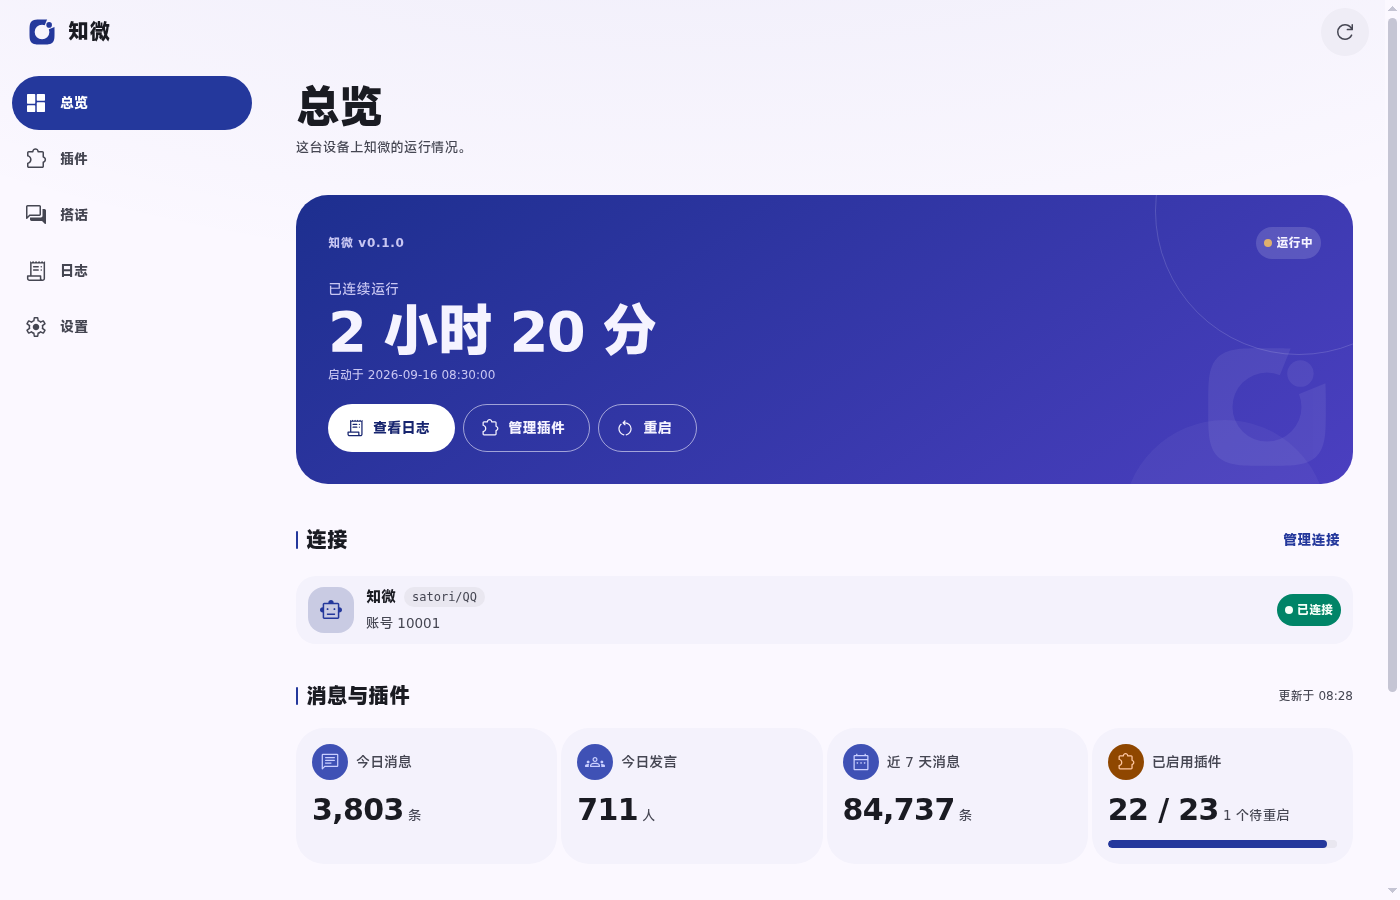
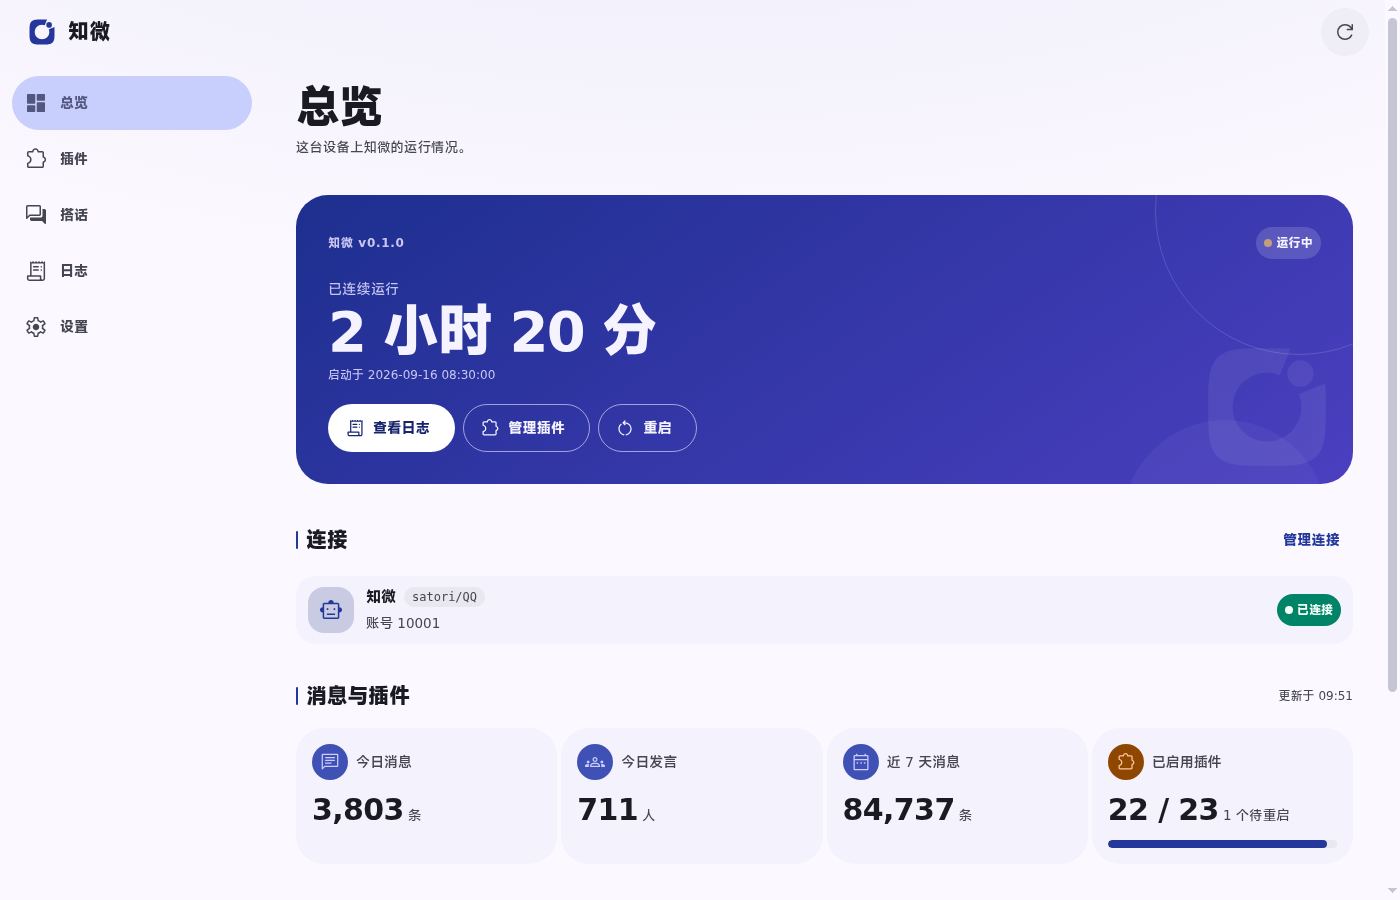
feat(console): 导航胶囊跟着当前页滑动，选中态改为 tonal 胶囊

Changed region(s): [[0.0, 0.0622, 0.1843, 0.1556]]

diff --git a/res/console/app.css b/res/console/app.css
@@ -356,25 +356,51 @@ time {
   border-radius: calc(var(--zw-dock-height) / 2);
   background: var(--md-sys-color-surface-container-high);
   box-shadow: var(--md-sys-elevation-level2);
+  isolation: isolate;
+}
+
+/* 滑动的胶囊。位置与尺寸由 app.js 的 paintNavPill 跟着当前格量出来；
+   它不是哪一格的背景，所以换页时能从旧格滑到新格。 */
+.nav-pill {
+  position: absolute;
+  inset: 0 auto auto 0;
+  z-index: 0;
+  width: 0;
+  height: 0;
+  border-radius: var(--md-sys-shape-corner-full);
+  background: var(--md-sys-color-secondary-container);
+  box-shadow: var(--md-sys-elevation-level2);
+  pointer-events: none;
+  transform: translate3d(0, 0, 0);
+  will-change: transform, width, height;
+  transition: background-color var(--md-sys-motion-effects-default-duration) var(--md-sys-motion-effects-default-easing);
+}
+
+/* 首帧、解锁与断点重排时先落位再开动画，免得量到过渡中间的一格宽。 */
+.nav.nav-snap .nav-item,
+.nav.nav-snap .nav-label {
+  transition: none;
 }
 
 .nav-item {
+  position: relative;
+  z-index: 1;
   flex: 1 1 0;
   display: flex;
   flex-direction: column;
   align-items: center;
   justify-content: center;
-  gap: var(--zw-space-01);
+  gap: 0;
   min-width: 0;
   height: calc(var(--zw-dock-height) - var(--zw-space-05));
   border-radius: calc((var(--zw-dock-height) - var(--zw-space-05)) / 2);
   color: var(--md-sys-color-on-surface-variant);
   text-decoration: none;
   transition:
-    background-color var(--md-sys-motion-effects-default-duration) var(--md-sys-motion-effects-default-easing),
     color var(--md-sys-motion-effects-fast-duration) var(--md-sys-motion-effects-fast-easing),
-    flex-grow var(--md-sys-motion-spatial-fast-duration) var(--md-sys-motion-spatial-fast-easing),
-    padding var(--md-sys-motion-spatial-fast-duration) var(--md-sys-motion-spatial-fast-easing);
+    flex-grow var(--zw-nav-duration) var(--md-sys-motion-spatial-default-easing),
+    flex-basis var(--zw-nav-duration) var(--md-sys-motion-spatial-default-easing),
+    padding var(--zw-nav-duration) var(--md-sys-motion-spatial-default-easing);
 }
 
 .nav-icon {
@@ -398,26 +424,40 @@ time {
   display: block;
 }
 
+/* 窄屏只让当前格的字露出来；其余格的字宽高归零，但仍然留在 DOM 里，
+   读屏器照常读到每个入口的名字。 */
 .nav-label {
-  display: none;
+  display: block;
+  max-width: 0;
+  max-height: 0;
+  overflow: hidden;
+  opacity: 0;
   font-size: var(--md-sys-typescale-label-medium-size);
   line-height: 1;
   font-weight: var(--md-sys-typescale-weight-emphasized);
   white-space: nowrap;
+  transition:
+    max-width var(--zw-nav-duration) var(--md-sys-motion-spatial-default-easing),
+    max-height var(--zw-nav-duration) var(--md-sys-motion-spatial-default-easing),
+    opacity var(--md-sys-motion-effects-fast-duration) var(--md-sys-motion-effects-fast-easing);
 }
 
 .nav-item[aria-current="page"] {
-  flex: 0 0 auto;
+  flex-grow: 0;
+  flex-basis: clamp(90px, 26vw, 150px);
   flex-direction: row;
   gap: var(--zw-space-03);
   padding-inline: var(--zw-space-05);
-  background: var(--md-sys-color-primary);
-  color: var(--md-sys-color-on-primary);
-  box-shadow: var(--md-sys-elevation-level2);
+  color: var(--md-sys-color-on-secondary-container);
 }
 
 .nav-item[aria-current="page"] .nav-label {
-  display: block;
+  max-width: 6em;
+  max-height: 1.2em;
+  opacity: 1;
+  /* 等胶囊先滑到位，字再出现：中途不会出现白字压在浮坞灰底上的那一瞬。
+     离开当前格时用的是基础规则（没有延迟），字立刻收起。 */
+  transition-delay: 180ms;
 }
 
 .nav-item:focus-visible {
@@ -430,7 +470,7 @@ time {
 }
 
 .nav-item[aria-current="page"]:focus-visible .nav-icon {
-  outline-color: var(--md-sys-color-on-primary);
+  outline-color: var(--md-sys-color-on-secondary-container);
 }
 
 .main {
@@ -508,20 +548,28 @@ time {
     border-radius: var(--md-sys-shape-corner-large-increased);
   }
 
+  .nav-pill {
+    background: var(--md-sys-color-secondary-container);
+    box-shadow: none;
+    border-radius: var(--md-sys-shape-corner-large-increased);
+  }
+
   .nav-item .nav-label,
   .nav-item[aria-current="page"] .nav-label {
     display: block;
+    max-width: none;
+    max-height: none;
+    overflow: visible;
+    opacity: 1;
     font-size: var(--zw-type-rail-label);
   }
 
   .nav-item[aria-current="page"] {
-    background: var(--md-sys-color-secondary-container);
     color: var(--md-sys-color-on-secondary-container);
-    box-shadow: none;
   }
 
   .nav-item[aria-current="page"]:focus-visible .nav-icon {
-    outline-color: var(--zw-focus-color);
+    outline-color: var(--md-sys-color-on-secondary-container);
   }
 
   .main {
@@ -569,19 +617,28 @@ time {
     border-radius: var(--md-sys-shape-corner-full);
   }
 
+  .nav-pill {
+    background: var(--md-sys-color-secondary-container);
+    border-radius: var(--md-sys-shape-corner-full);
+    box-shadow: none;
+  }
+
   .nav-item .nav-label,
   .nav-item[aria-current="page"] .nav-label {
+    max-width: none;
+    max-height: none;
+    overflow: visible;
+    opacity: 1;
     font-size: var(--md-sys-typescale-label-large-size);
     line-height: var(--md-sys-typescale-label-large-line-height);
   }
 
   .nav-item[aria-current="page"] {
-    background: var(--md-sys-color-primary);
-    color: var(--md-sys-color-on-primary);
+    color: var(--md-sys-color-on-secondary-container);
   }
 
   .nav-item[aria-current="page"]:focus-visible .nav-icon {
-    outline-color: var(--md-sys-color-on-primary);
+    outline-color: var(--md-sys-color-on-secondary-container);
   }
 
   .nav-item:focus-visible {

diff --git a/res/console/app.js b/res/console/app.js
@@ -312,12 +312,12 @@
   function buildShell() {
     put(
       $("#nav"),
-      PAGES.map(
+      h`<span class="nav-pill" aria-hidden="true"></span>${PAGES.map(
         (page) => h`<a class="nav-item" href="#/${page.id}" data-nav="${page.id}">
           <span class="nav-icon state">${duoIcon(page.glyph)}</span>
           <span class="nav-label">${page.label}</span>
         </a>`
-      )
+      )}`
     );
     put(
       $("#topbar-actions"),
@@ -325,11 +325,88 @@
     );
   }
 
+  /* 胶囊跟着当前格走。切换页面时先记住它现在的位置，再在 ~380ms 内
+     逐帧追到新格（新格自己也在随 flex 过渡伸展），所以胶囊像被「带」过去，
+     不是凭空跳过去。首帧、缩放、断点切换与减少动态都直接落位。 */
+  let navPillFrame = 0;
+  function paintNavPill(animate = true) {
+    const nav = $("#nav");
+    const pill = nav?.querySelector(".nav-pill");
+    const item = nav?.querySelector('.nav-item[aria-current="page"]');
+    if (!nav || !pill || !item) return;
+
+    cancelAnimationFrame(navPillFrame);
+    const navRect = nav.getBoundingClientRect();
+    const pillRect = pill.getBoundingClientRect();
+    const from = {
+      x: pillRect.left - navRect.left - nav.clientLeft,
+      y: pillRect.top - navRect.top - nav.clientTop,
+      w: pillRect.width,
+      h: pillRect.height,
+    };
+    const first = !pill.dataset.painted;
+    const duration = animate && !first && !matchMedia("(prefers-reduced-motion: reduce)").matches
+      ? parseFloat(getComputedStyle(nav).getPropertyValue("--zw-nav-duration")) || 0
+      : 0;
+    const start = performance.now();
+
+    const place = (x, y, w, h) => {
+      pill.style.transform = `translate3d(${x.toFixed(2)}px, ${y.toFixed(2)}px, 0)`;
+      pill.style.width = `${Math.max(0, w).toFixed(2)}px`;
+      pill.style.height = `${Math.max(0, h).toFixed(2)}px`;
+    };
+
+    const step = (now) => {
+      const progress = duration > 0 ? Math.min(1, (now - start) / duration) : 1;
+      const ease = 1 - Math.pow(1 - progress, 4);
+      const rect = item.getBoundingClientRect();
+      const to = {
+        x: rect.left - navRect.left - nav.clientLeft,
+        y: rect.top - navRect.top - nav.clientTop,
+        w: rect.width,
+        h: rect.height,
+      };
+      place(
+        from.x + (to.x - from.x) * ease,
+        from.y + (to.y - from.y) * ease,
+        from.w + (to.w - from.w) * ease,
+        from.h + (to.h - from.h) * ease
+      );
+      if (progress < 1) navPillFrame = requestAnimationFrame(step);
+    };
+
+    pill.dataset.painted = "1";
+    if (duration > 0) navPillFrame = requestAnimationFrame(step);
+    else step(start);
+  }
+
+  /* 尺寸/断点变了才重新落位；换页动画进行中的偶发 observer 回调不打断它。 */
+  function syncNavPill() {
+    const nav = $("#nav");
+    const pill = nav?.querySelector(".nav-pill");
+    if (!nav || !pill) return;
+    const rect = nav.getBoundingClientRect();
+    const key = `${rect.width.toFixed(1)}x${rect.height.toFixed(1)}`;
+    if (pill.dataset.navSize === key && pill.dataset.painted) return;
+    pill.dataset.navSize = key;
+    cancelAnimationFrame(navPillFrame);
+    nav.classList.add("nav-snap");
+    paintNavPill(false);
+    requestAnimationFrame(() => nav.classList.remove("nav-snap"));
+  }
+
   function markNav(active) {
-    for (const item of $$("#nav [data-nav]")) {
-      if (item.dataset.nav === active) item.setAttribute("aria-current", "page");
+    const nav = $("#nav");
+    if (!nav) return;
+    const previous = nav.querySelector('.nav-item[aria-current="page"]');
+    const next = nav.querySelector(`[data-nav="${active}"]`);
+    const animate = Boolean(previous && previous !== next);
+    for (const item of $$("#nav [data-nav]", nav)) {
+      if (item === next) item.setAttribute("aria-current", "page");
       else item.removeAttribute("aria-current");
     }
+    if (animate) paintNavPill(true);
+    else syncNavPill();
   }
 
   function parseRoute() {
@@ -2466,6 +2543,16 @@
   /* ==================== §13 事件 ==================== */
 
   function bindEvents() {
+    /* 导航尺寸变了（断点、旋转、字体）就重新量一次胶囊；不参与换页动画。 */
+    let navResize = 0;
+    const repaintNav = () => {
+      cancelAnimationFrame(navResize);
+      navResize = requestAnimationFrame(syncNavPill);
+    };
+    addEventListener("resize", repaintNav, { passive: true });
+    if ("ResizeObserver" in window) new ResizeObserver(repaintNav).observe($("#nav"));
+    document.fonts?.ready.then(repaintNav);
+
     document.addEventListener("click", async (event) => {
       const target = event.target;
       if (!(target instanceof Element)) return;

diff --git a/res/console/tokens.css b/res/console/tokens.css
@@ -402,6 +402,8 @@
   --zw-type-hero: clamp(2.5rem, 10vw, 3.5rem);
   --zw-type-hero-wide: 3.5rem;
   --zw-type-rail-label: 0.6875rem;
+  /* 导航胶囊滑动与选中格展开的时长（JS 也读这一支）。 */
+  --zw-nav-duration: 380ms;
 
   --zw-code-size: var(--md-sys-typescale-body-medium-size);
   --zw-code-line-height: var(--md-sys-typescale-body-medium-line-height);
@@ -420,6 +422,13 @@
   }
 }
 
+/* 320px 上把浮坞的边上留白收窄，五个入口仍能保证 48px 的触控宽度。 */
+@media (max-width: 359px) {
+  :root {
+    --zw-dock-inset: 8px;
+  }
+}
+
 @media (pointer: fine) {
   :root {
     --zw-size-search: 52px;
@@ -435,6 +444,7 @@
     --md-sys-motion-effects-default-duration: 100ms;
     --md-sys-motion-effects-slow-duration: 100ms;
     --md-sys-motion-loop-duration: 0ms;
+    --zw-nav-duration: 0ms;
   }
 }
 

diff --git a/scripts/audit-contrast.py b/scripts/audit-contrast.py
@@ -77,6 +77,12 @@ return (function () {
   function opaque(c) { return c && c.a >= 0.999; }
   // 从元素往上找第一层真正不透明的底，半透明的层按顺序叠上去。
   function backdrop(el) {
+    // 导航胶囊是独立的兄弟层，不在这条祖先链上；当前格里的文字实际上压在它上面。
+    if (el.closest && el.closest('.nav-item[aria-current="page"]')) {
+      var pill = document.querySelector('#nav .nav-pill');
+      var pc = pill ? parseColor(getComputedStyle(pill).backgroundColor) : null;
+      if (pc && pc.a > 0) return pc;
+    }
     var node = el, acc = null;
     while (node && node.nodeType === 1) {
       var c = parseColor(getComputedStyle(node).backgroundColor);

diff --git a/docs/DESIGN_SYSTEM.md b/docs/DESIGN_SYSTEM.md
@@ -18,7 +18,7 @@
 - **卡片的令牌已冻结**：`res/cards/tokens.css` 自 2026-10-19 起不再由这个脚本覆盖（卡片要按群聊缩略图的 20px 根字号与旧字阶出图）；脚本只继续生成控制台令牌与 `src/render/tokens.rs`。要改卡片直接改那一份。
 - `--md-sys-typescale-*`、`--md-sys-shape-*`、`--md-sys-motion-*`、`--md-sys-state-*`、`--md-sys-elevation-*` 是视觉令牌；`--zw-*` 只放产品几何映射（4dp 间距基线、尺寸、安全区、焦点环）。组件层不另造全局令牌，不硬编码颜色 / 形状 / 字号。
 - 同一脚本仍生成 `src/render/tokens.rs`（原生统计图与词云不得手抄配色）；`res/cards/tokens.css` 已冻结（见上）。卡片根字号 20px，用同一 rem 字阶适配群聊缩略图，空间间距按 4px 基线映射；卡片的语义角色与控制台一致。
-- 颜色配对成套使用：`primary/on-primary` 主操作与导航选中；`primary-container/on-primary-container` 用于选中行（文字取 `--zw-selected-fg`，见下）；`secondary-container/on-secondary-container` 次级块；`tertiary-container/on-tertiary-container` 插件总数强调；`surface-container-*` 其余表面。运行卡、日志台与琥珀色点缀是界面专属的 `--zw-*` 颜色（`--zw-hero-*`、`--zw-log-*`、`--zw-accent`），不随方案反转。`outline` 用于需要 3:1 的控件边界，`outline-variant` 仅用于装饰线；文字不使用 `outline`。
+- 颜色配对成套使用：`primary/on-primary` 主操作；`secondary-container/on-secondary-container` 导航选中与次级块；`primary-container/on-primary-container` 用于选中行（文字取 `--zw-selected-fg`，见下）；`tertiary-container/on-tertiary-container` 插件总数强调；`surface-container-*` 其余表面。运行卡、日志台与琥珀色点缀是界面专属的 `--zw-*` 颜色（`--zw-hero-*`、`--zw-log-*`、`--zw-accent`），不随方案反转。`outline` 用于需要 3:1 的控件边界，`outline-variant` 仅用于装饰线；文字不使用 `outline`。
 - 字体使用系统无衬线，日志 / 代码使用系统等宽，数据用 `tabular-nums`。字号用 rem，输入框不得小于 16px。圆角使用 M3E shape scale（卡片 28、运行卡 32、列表行 20），不启用 squircle 或其它形状体系。**读起来舒服是第一位的**：正文 15px / 25px（行高 1.5625，中文长段不挤）、说明 13.5px / 23px；标题与强调取 700（`--zw-weight-heading`），display 取 800，字距收紧到 `-0.02em`——这是 M3E 的 expressive 档。
 - **聊天卡片的字体与控制台不同**：卡片在服务端出图，读者的平台字体用不上，而 `system-ui` 在出图机上会落到 DejaVu Sans（拉丁字母又宽又散，汉字另走只有 Regular 一档的思源黑体，500 / 600 字重出不来）。所以 `scripts/make-tokens.py` 在卡片令牌里把 MiSans 排在最前——汉字拉丁一体、字重 Thin–Heavy 齐全；没装它的机器照旧走控制台那一串。装在 `$PREFIX/share/fonts/TTF/MiSans`，属设备本地状态。
 - 颜色反馈使用状态层（hover 8%，focus / pressed 10%）；位置与尺寸用 spatial fast / default（350 / 500ms），透明度 / 颜色用 effects（150 / 200 / 300ms）。减少动态时空间动画归零、循环动画停用。阴影仅用于浮层，内容卡片以容器色分层。
@@ -51,7 +51,7 @@
 
 ## 组件与交互契约
 
-- **导航**：五个真实链接；当前页 `aria-current="page"`。路由更新文档标题，切页焦点进入 h1，前进 / 后退有效。
+- **导航**：五个真实链接；当前页 `aria-current="page"`。路由更新文档标题，切页焦点进入 h1，前进 / 后退有效。胶囊是独立的绝对定位层（`.nav-pill`），由 `app.js` 的 `paintNavPill` 逐帧跟随当前格：换页时旧胶囊滑到新格，当前格的宽度由 flex 过渡伸展；用 `secondary-container` 而不是主色，滑过其他图标时它们仍是深色，不会出现「白图标压在浅底上」的一瞬。首帧、断点与减少动态直接落位。
 - **按钮 / 开关 / 筛选**：filled > tonal > outlined > text；开关为 52×32 M3 轨道、`role="switch"` 与 `aria-checked`，名字不随状态变，打开时滑块变大并镂出一枚对勾（蒙版相减，颜色就是轨道色）；筛选芯片使用 `aria-pressed`，选中有形状 / 勾选标记而非只变颜色。`aria-checked`、`aria-pressed`、`aria-selected` 一律写成 `"true"` / `"false"`，不留空串（`h``` 会把 `false` 渲染成空，空串等于没写，读屏读不出「关」）。触屏目标 ≥48px，精确指针 ≥40px。
 - **列表 / 编辑**：每一行是独立小卡（20px 圆角、行间 4px），整行链接与尾部开关是两个独立命中目标；输入框是填充式（`surface-container-high`，圆角 20，聚焦换成主色描边），标签保持可见，错误在本字段下说明并以 `aria-invalid`、`aria-describedby` 关联。
 - **插件列表**：按分类分块，每块一个小标题（名字 + 个数），块内是一摞独立小卡（每行 20px 圆角、行间 4px 缝）；每行左侧一块 46px 的图标方块（见「图标」），右侧只有开关——整行是进入详情的链接，不再加一枚箭头去占说明的宽度。筛选条在窄屏上一行横向滑动，不折成两三行吃掉首屏。选中行换 primary-container、文字取 `--zw-selected-fg`（近白，高对比度下反转），方块换实心主色；说明在列表里最多两行，完整内容在详情里。详情页头是 56px 的图标方块 + 名字 + 代号 + 状态。
